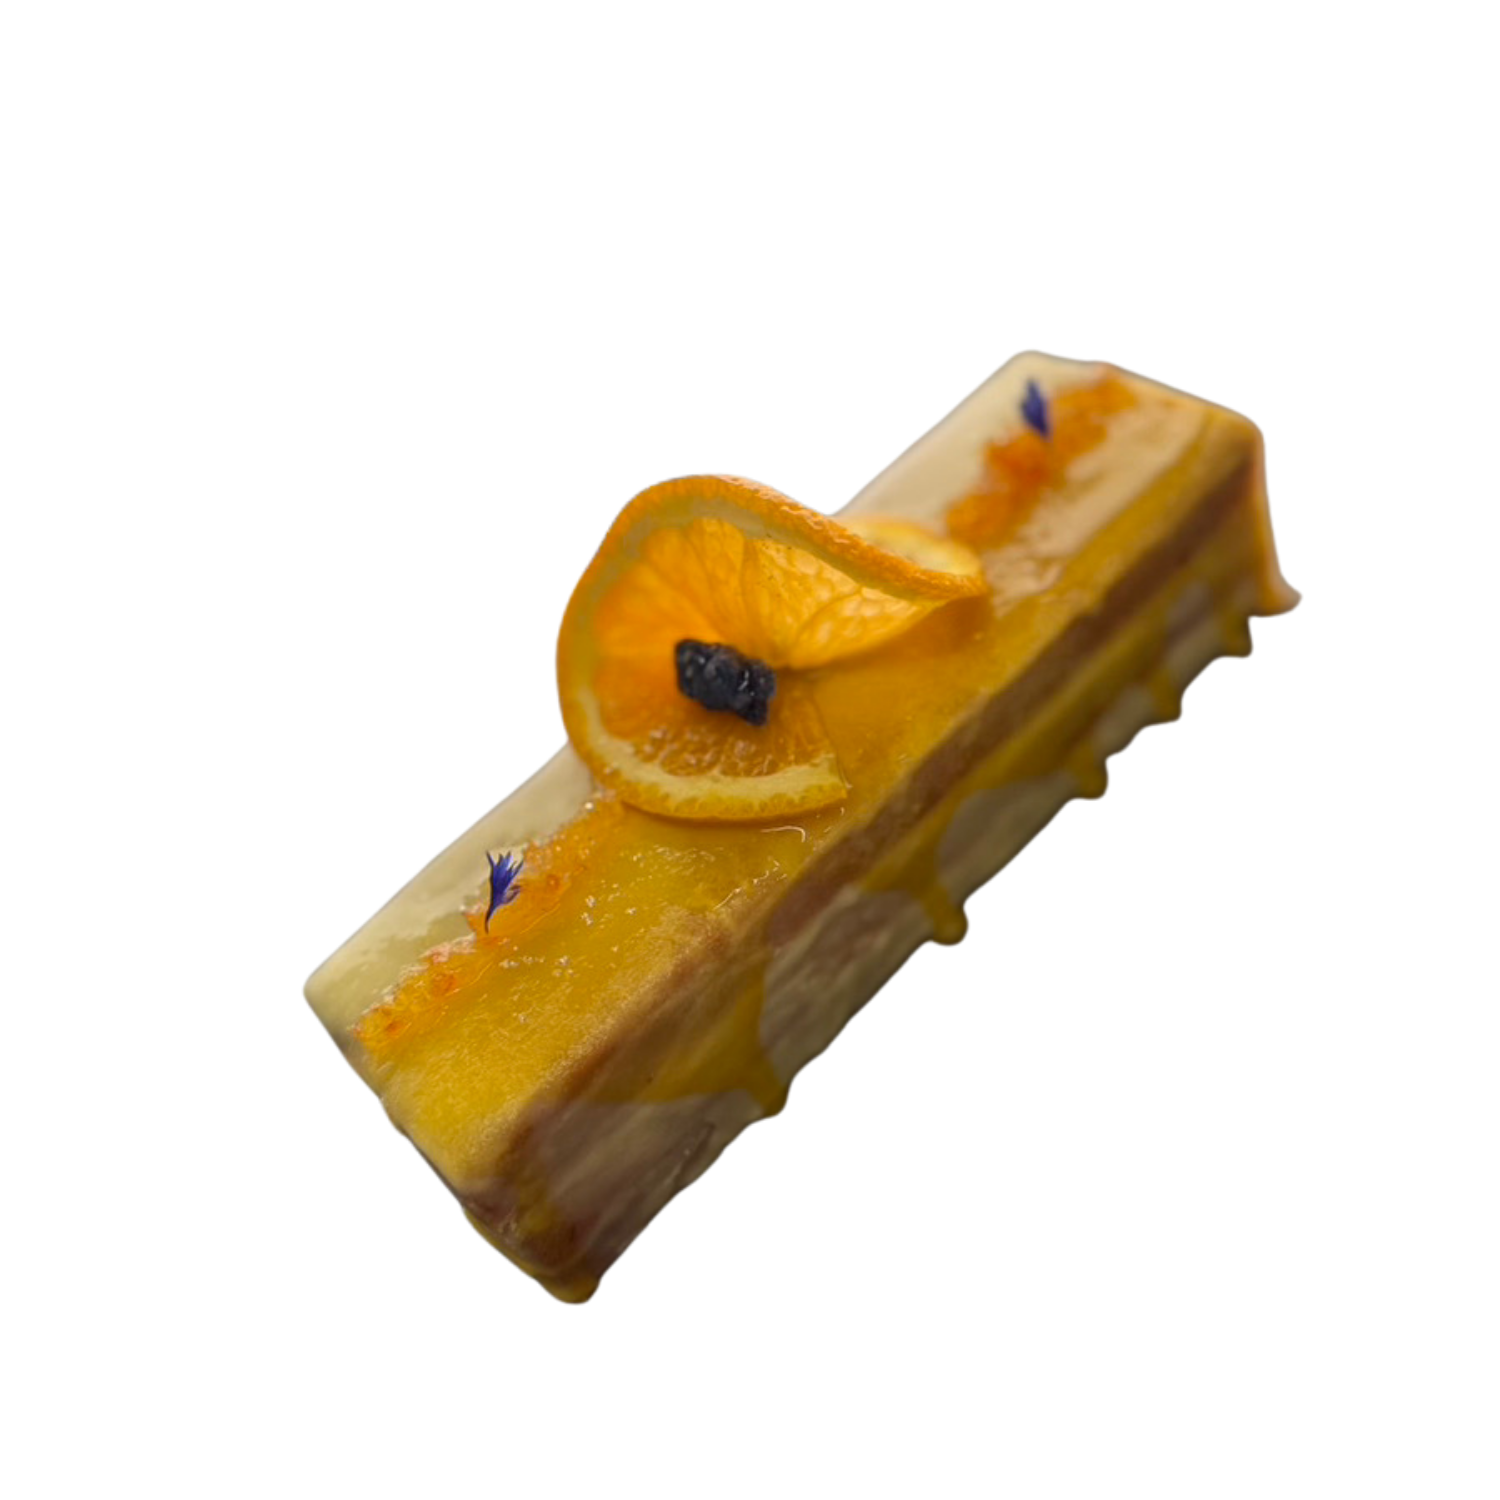
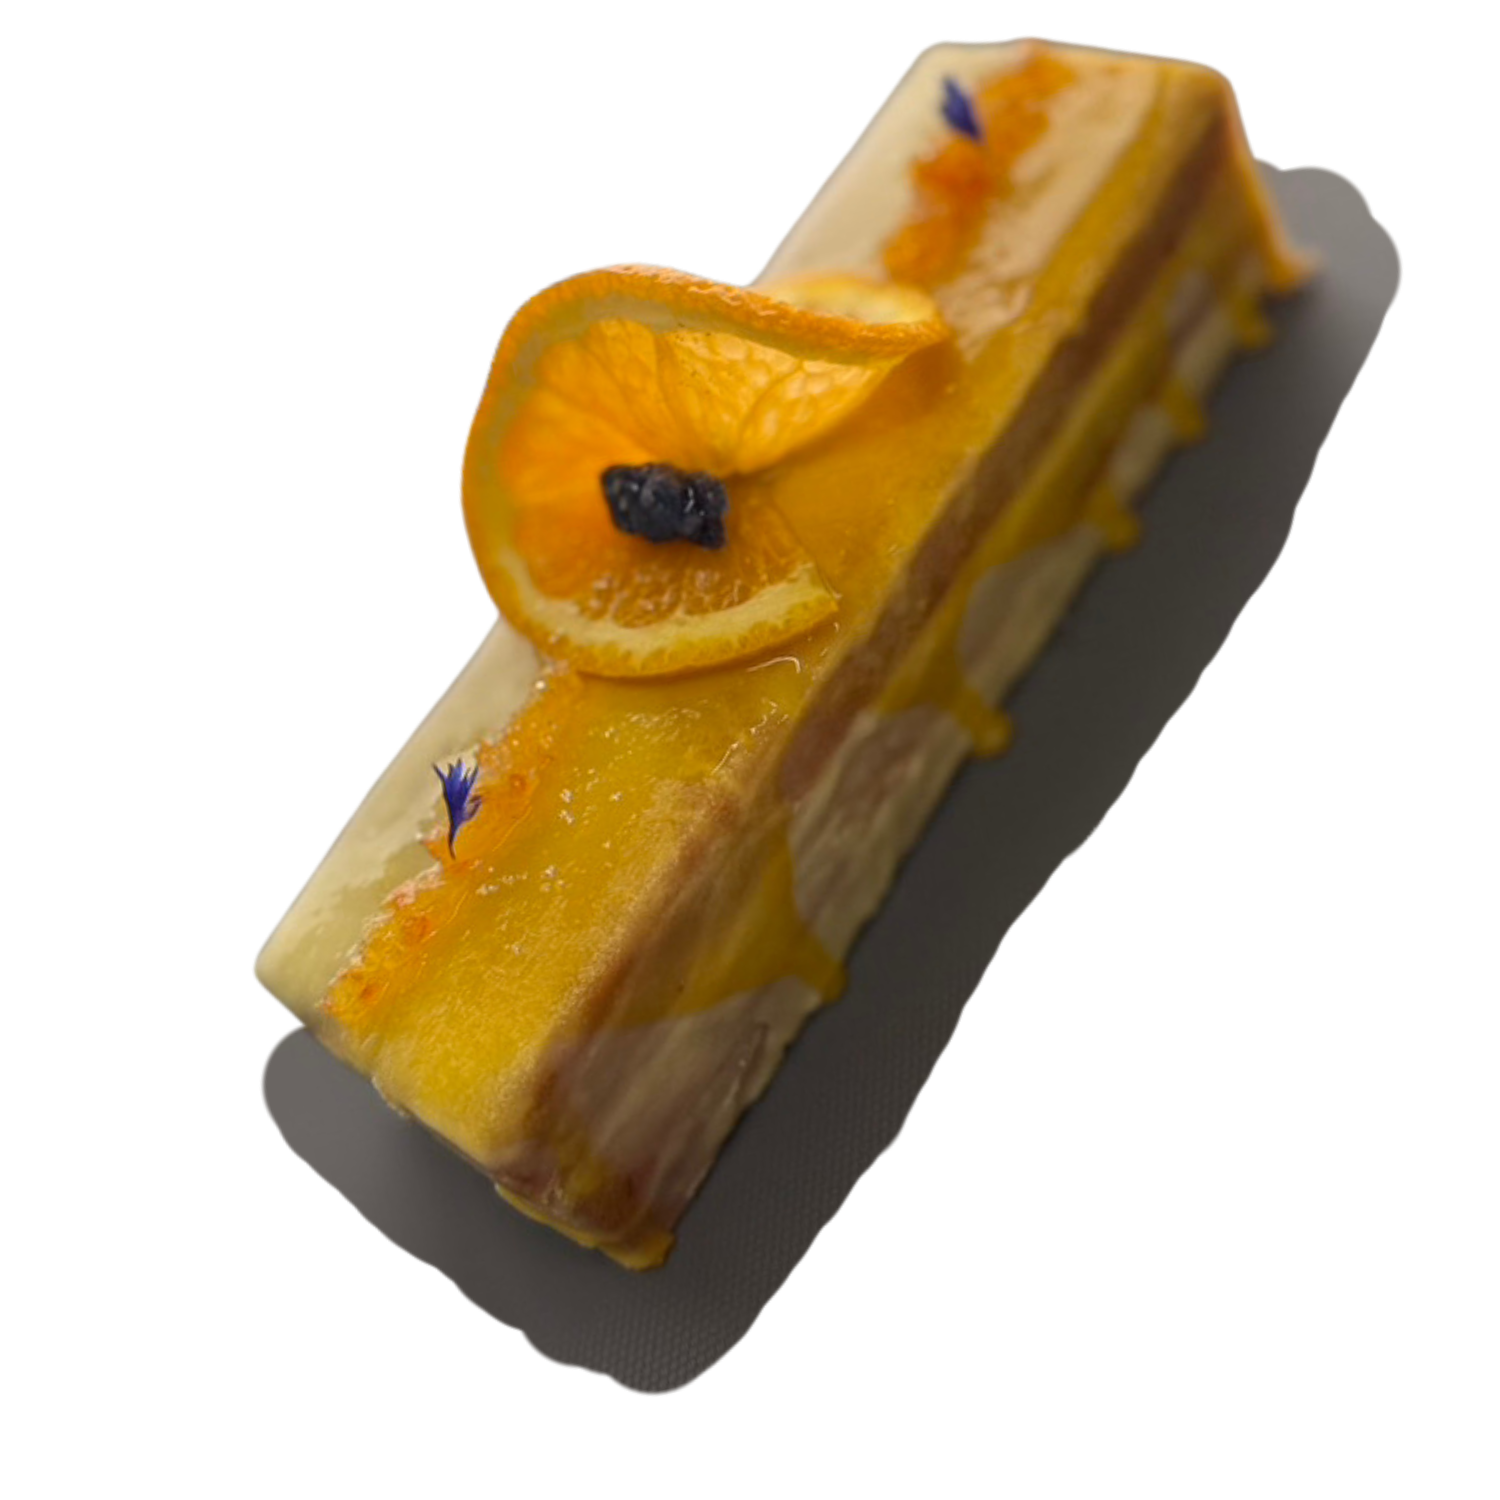
抹茶・オレンジのショーケース写真を差し替える。
Canva仕上げの透過PNG（images/4・5）を Verdant Veil / Passion Orange に反映する。

diff --git a/index.html b/index.html
@@ -1498,7 +1498,7 @@
               <div className="cake-item" data-position="center">
                 <a href="https://buy.stripe.com/00w14g7NCbRAcSYfg6gw007" className="cake-link" target="_blank" rel="noopener noreferrer">
                   <div className="cake-image-wrap">
-                    <img src="images/showcase/cake-verdant-veil.png?v=20260730" alt="Verdant Veil" className="cake-image" />
+                    <img src="images/showcase/cake-verdant-veil.png?v=20260730b" alt="Verdant Veil" className="cake-image" />
                     <div className="spotlight-glow"></div>
                   </div>
                   <div className="cake-plate">
@@ -1519,7 +1519,7 @@
               <div className="cake-item" data-position="right">
                 <a href="https://buy.stripe.com/aFacMY5Fu3l46uA2tkgw008" className="cake-link" target="_blank" rel="noopener noreferrer">
                   <div className="cake-image-wrap">
-                    <img src="images/showcase/cake-passion-orange.png?v=20260730" alt="Passion Orange Vert" className="cake-image" />
+                    <img src="images/showcase/cake-passion-orange.png?v=20260730b" alt="Passion Orange Vert" className="cake-image" />
                     <div className="spotlight-glow"></div>
                   </div>
                   <div className="cake-plate">
@@ -1593,7 +1593,7 @@
 
               <div className="mobile-cake-card">
                 <a href="https://buy.stripe.com/00w14g7NCbRAcSYfg6gw007" className="mobile-cake-link" target="_blank" rel="noopener noreferrer">
-                  <img src="images/showcase/cake-verdant-veil.png?v=20260730" alt="Verdant Veil" className="mobile-cake-image" />
+                  <img src="images/showcase/cake-verdant-veil.png?v=20260730b" alt="Verdant Veil" className="mobile-cake-image" />
                   <div className="mobile-cake-plate">
                     <div className="plate-name">Verdant Veil</div>
                     <div className="plate-tagline">貴方の心が芽生える新緑茶に包まれて</div>
@@ -1608,7 +1608,7 @@
 
               <div className="mobile-cake-card">
                 <a href="https://buy.stripe.com/aFacMY5Fu3l46uA2tkgw008" className="mobile-cake-link" target="_blank" rel="noopener noreferrer">
-                  <img src="images/showcase/cake-passion-orange.png?v=20260730" alt="Passion Orange Vert" className="mobile-cake-image" />
+                  <img src="images/showcase/cake-passion-orange.png?v=20260730b" alt="Passion Orange Vert" className="mobile-cake-image" />
                   <div className="mobile-cake-plate">
                     <div className="plate-name">Passion Orange</div>
                     <div className="plate-tagline">気分も弾けるフレッシュオレンジ C'est trop bon!</div>

diff --git a/versions/0617_ver01.html b/versions/0617_ver01.html
@@ -1578,7 +1578,7 @@
               <div className="cake-item" data-position="center">
                 <a href="https://buy.stripe.com/00w14g7NCbRAcSYfg6gw007" className="cake-link" target="_blank" rel="noopener noreferrer">
                   <div className="cake-image-wrap">
-                    <img src="images/showcase/cake-verdant-veil.png?v=20260730" alt="Verdant Veil" className="cake-image" />
+                    <img src="images/showcase/cake-verdant-veil.png?v=20260730b" alt="Verdant Veil" className="cake-image" />
                     <div className="spotlight-glow"></div>
                   </div>
                   <div className="cake-plate">
@@ -1599,7 +1599,7 @@
               <div className="cake-item" data-position="right">
                 <a href="https://buy.stripe.com/aFacMY5Fu3l46uA2tkgw008" className="cake-link" target="_blank" rel="noopener noreferrer">
                   <div className="cake-image-wrap">
-                    <img src="images/showcase/cake-passion-orange.png?v=20260730" alt="Passion Orange Vert" className="cake-image" />
+                    <img src="images/showcase/cake-passion-orange.png?v=20260730b" alt="Passion Orange Vert" className="cake-image" />
                     <div className="spotlight-glow"></div>
                   </div>
                   <div className="cake-plate">
@@ -1673,7 +1673,7 @@
 
               <div className="mobile-cake-card">
                 <a href="https://buy.stripe.com/00w14g7NCbRAcSYfg6gw007" className="mobile-cake-link" target="_blank" rel="noopener noreferrer">
-                  <img src="images/showcase/cake-verdant-veil.png?v=20260730" alt="Verdant Veil" className="mobile-cake-image" />
+                  <img src="images/showcase/cake-verdant-veil.png?v=20260730b" alt="Verdant Veil" className="mobile-cake-image" />
                   <div className="mobile-cake-plate">
                     <div className="plate-name">Verdant Veil</div>
                     <div className="plate-tagline">貴方の心が芽生える新緑茶に包まれて</div>
@@ -1688,7 +1688,7 @@
 
               <div className="mobile-cake-card">
                 <a href="https://buy.stripe.com/aFacMY5Fu3l46uA2tkgw008" className="mobile-cake-link" target="_blank" rel="noopener noreferrer">
-                  <img src="images/showcase/cake-passion-orange.png?v=20260730" alt="Passion Orange Vert" className="mobile-cake-image" />
+                  <img src="images/showcase/cake-passion-orange.png?v=20260730b" alt="Passion Orange Vert" className="mobile-cake-image" />
                   <div className="mobile-cake-plate">
                     <div className="plate-name">Passion Orange</div>
                     <div className="plate-tagline">気分も弾けるフレッシュオレンジ C'est trop bon!</div>

diff --git a/versions/0617_ver02.html b/versions/0617_ver02.html
@@ -1498,7 +1498,7 @@
               <div className="cake-item" data-position="center">
                 <a href="https://buy.stripe.com/00w14g7NCbRAcSYfg6gw007" className="cake-link" target="_blank" rel="noopener noreferrer">
                   <div className="cake-image-wrap">
-                    <img src="images/showcase/cake-verdant-veil.png?v=20260730" alt="Verdant Veil" className="cake-image" />
+                    <img src="images/showcase/cake-verdant-veil.png?v=20260730b" alt="Verdant Veil" className="cake-image" />
                     <div className="spotlight-glow"></div>
                   </div>
                   <div className="cake-plate">
@@ -1519,7 +1519,7 @@
               <div className="cake-item" data-position="right">
                 <a href="https://buy.stripe.com/aFacMY5Fu3l46uA2tkgw008" className="cake-link" target="_blank" rel="noopener noreferrer">
                   <div className="cake-image-wrap">
-                    <img src="images/showcase/cake-passion-orange.png?v=20260730" alt="Passion Orange Vert" className="cake-image" />
+                    <img src="images/showcase/cake-passion-orange.png?v=20260730b" alt="Passion Orange Vert" className="cake-image" />
                     <div className="spotlight-glow"></div>
                   </div>
                   <div className="cake-plate">
@@ -1593,7 +1593,7 @@
 
               <div className="mobile-cake-card">
                 <a href="https://buy.stripe.com/00w14g7NCbRAcSYfg6gw007" className="mobile-cake-link" target="_blank" rel="noopener noreferrer">
-                  <img src="images/showcase/cake-verdant-veil.png?v=20260730" alt="Verdant Veil" className="mobile-cake-image" />
+                  <img src="images/showcase/cake-verdant-veil.png?v=20260730b" alt="Verdant Veil" className="mobile-cake-image" />
                   <div className="mobile-cake-plate">
                     <div className="plate-name">Verdant Veil</div>
                     <div className="plate-tagline">貴方の心が芽生える新緑茶に包まれて</div>
@@ -1608,7 +1608,7 @@
 
               <div className="mobile-cake-card">
                 <a href="https://buy.stripe.com/aFacMY5Fu3l46uA2tkgw008" className="mobile-cake-link" target="_blank" rel="noopener noreferrer">
-                  <img src="images/showcase/cake-passion-orange.png?v=20260730" alt="Passion Orange Vert" className="mobile-cake-image" />
+                  <img src="images/showcase/cake-passion-orange.png?v=20260730b" alt="Passion Orange Vert" className="mobile-cake-image" />
                   <div className="mobile-cake-plate">
                     <div className="plate-name">Passion Orange</div>
                     <div className="plate-tagline">気分も弾けるフレッシュオレンジ C'est trop bon!</div>
